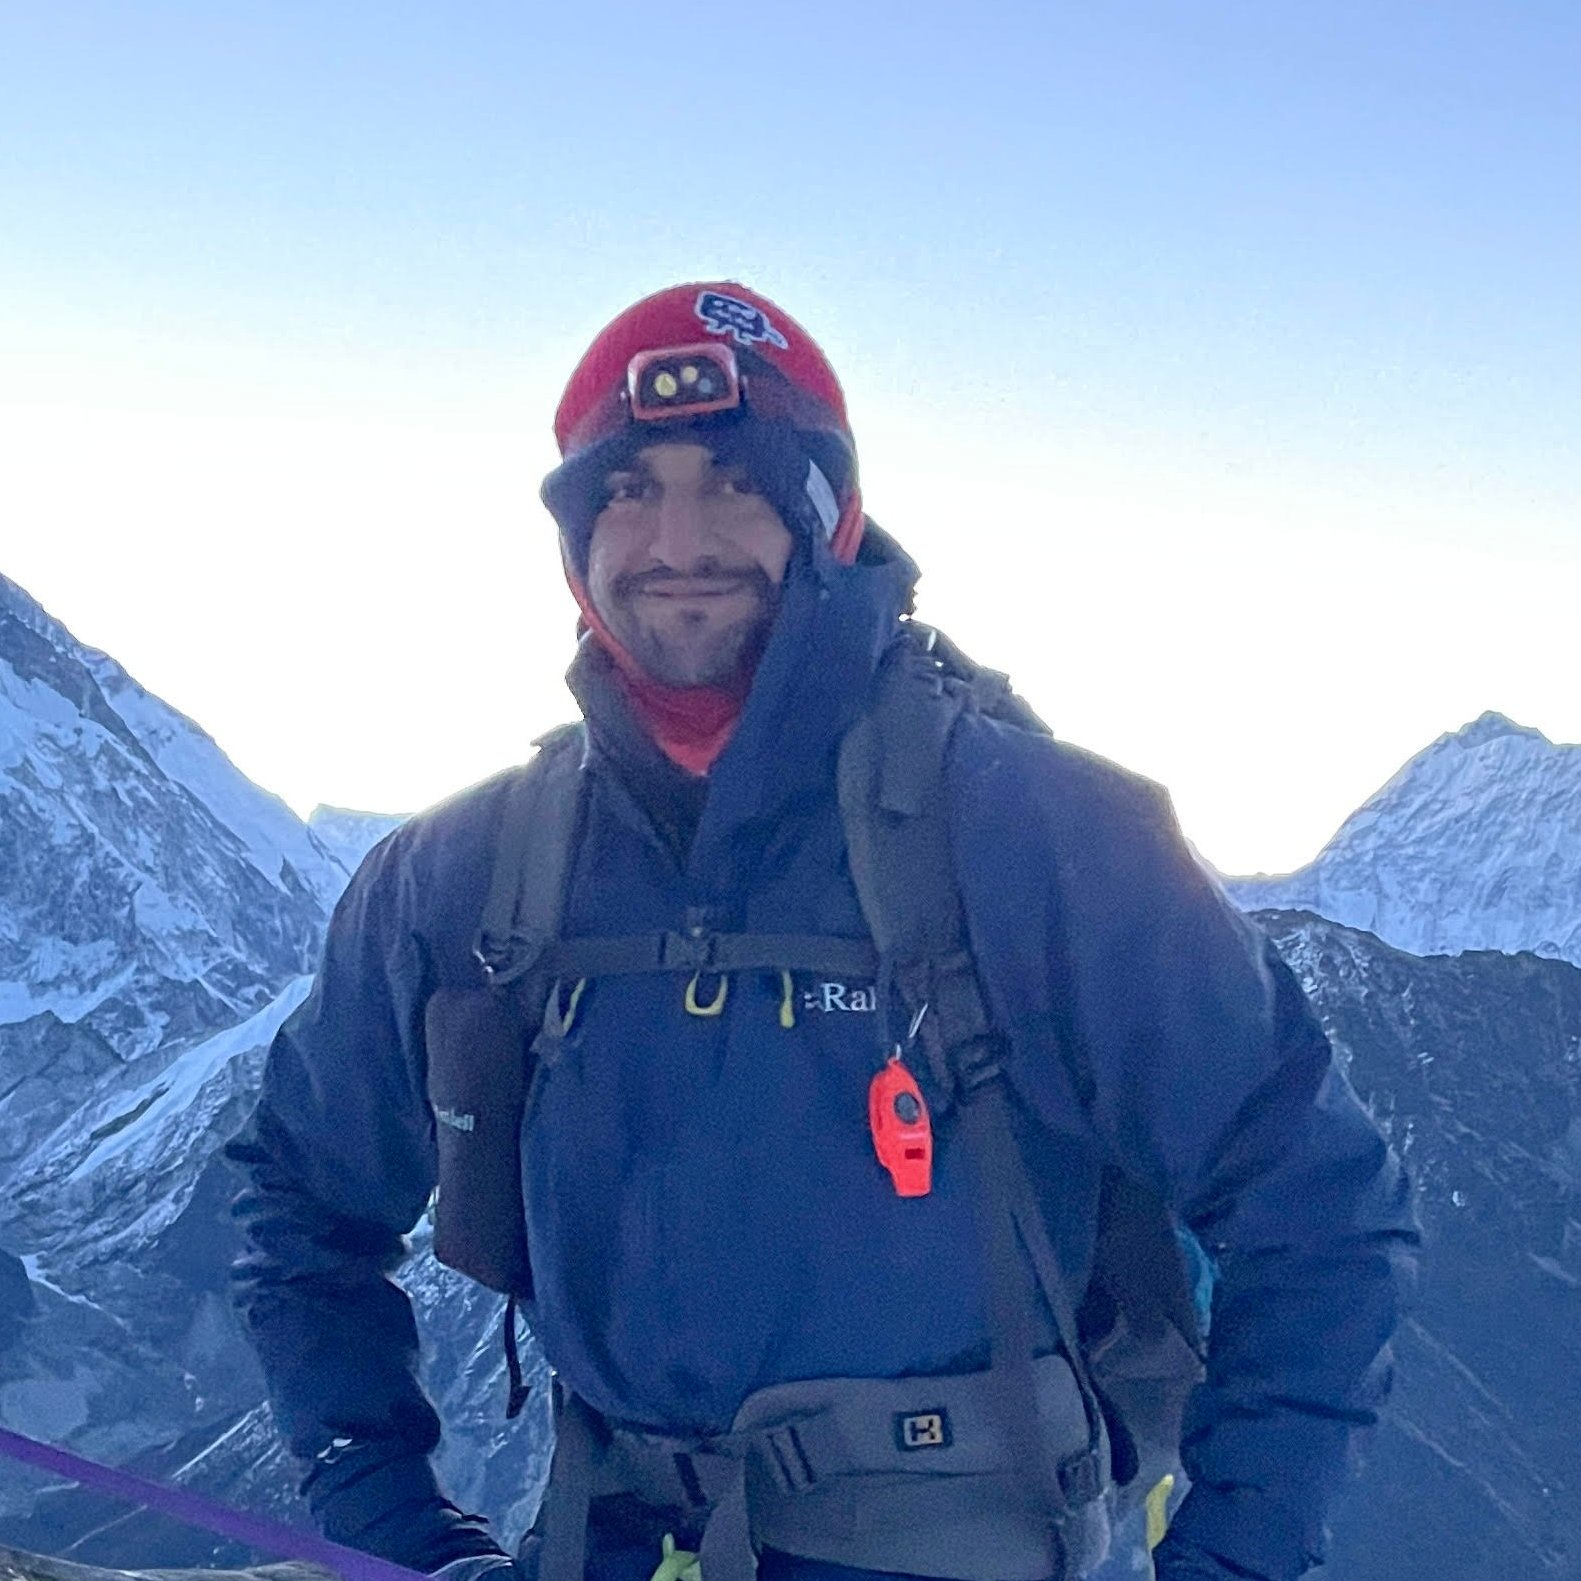
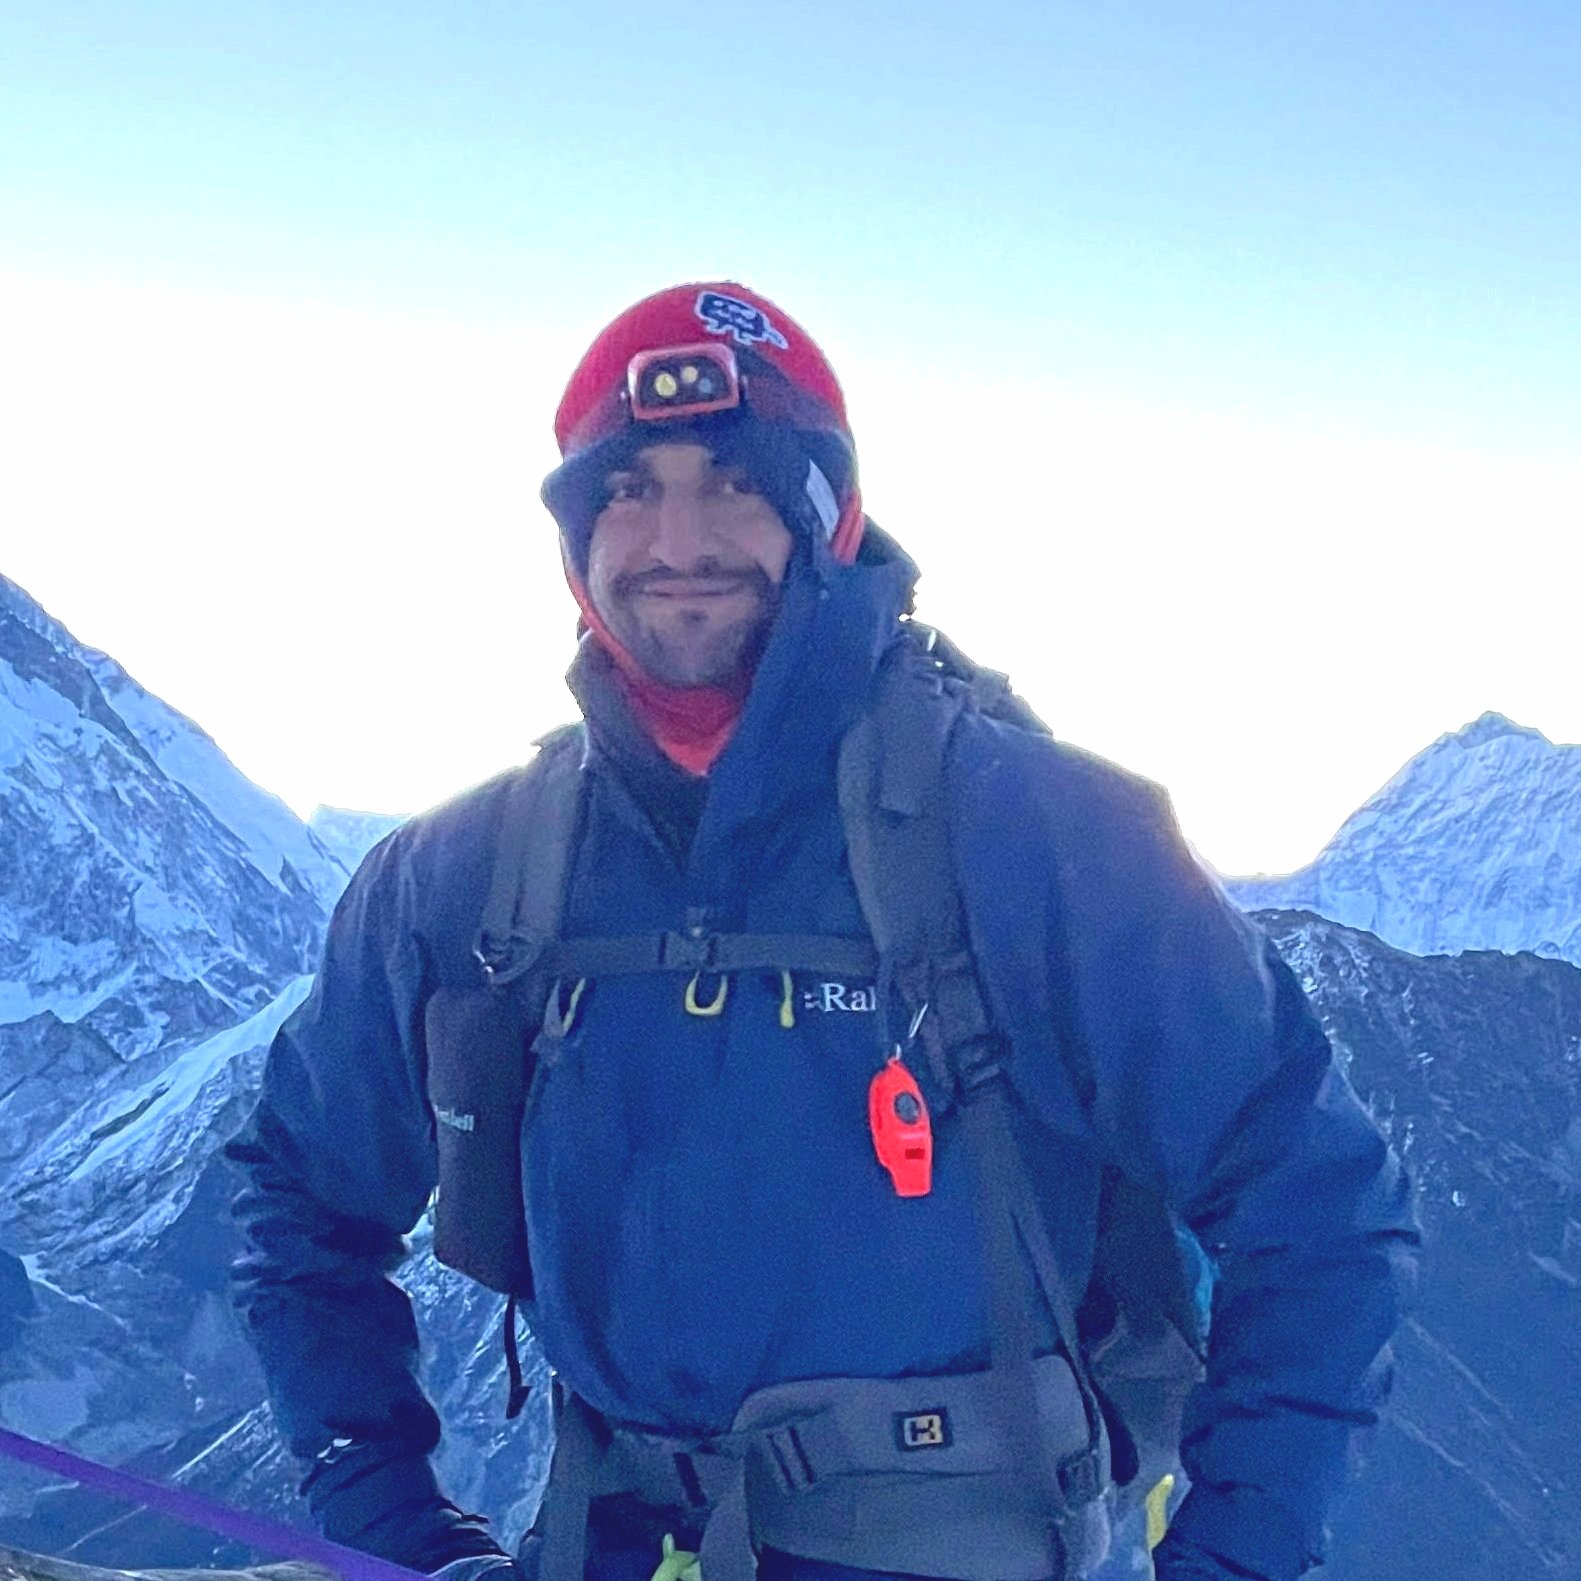
polish mobile menu and color grade staff pic

diff --git a/index.html b/index.html
@@ -247,7 +247,15 @@
       }
     }
 
+    // Toggle when hamburger is clicked
     hamburger.addEventListener('click', toggleMobileMenu);
+
+    // Allow clicking anywhere on the mobile menu (outside child elements) to close it
+    mobileMenu.addEventListener('click', function(e) {
+      if (e.target === mobileMenu) {
+        toggleMobileMenu();
+      }
+    });
   </script>
 </body>
 </html>
